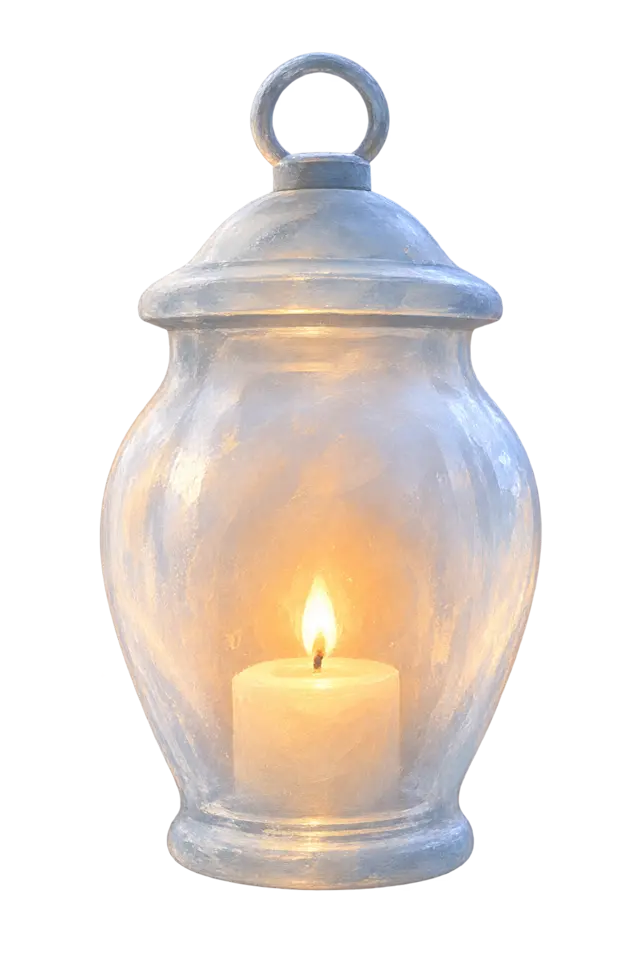
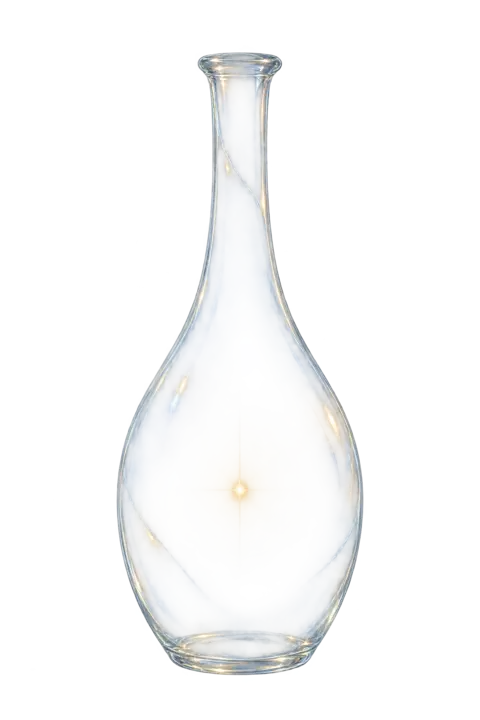
Refine transparent bottle and dandelion spark release

diff --git a/app.js b/app.js
@@ -38,6 +38,9 @@ let progressAnimation;
 let nearestTimer;
 let blinkTimer;
 let muted = false;
+let textSparksReleased = false;
+let lastSparkBurstAt = 0;
+const activeBurstParticles = new Set();
 
 function renderTrackNodes() {
   tracks.forEach((track, index) => {
@@ -65,7 +68,9 @@ function renderTrackNodes() {
   });
 }
 
-function renderSparks() {
+function renderSparks(originX, originY) {
+  if (textSparksReleased) return;
+  textSparksReleased = true;
   sparkTexts.forEach((spark, index) => {
     const button = document.createElement("button");
     button.className = `spark ${spark.styleVariant}`;
@@ -81,6 +86,7 @@ function renderSparks() {
     button.style.setProperty("--spark-dx", `${index % 2 ? -8 : 10}px`);
     button.style.setProperty("--spark-dy", `${index % 3 ? 8 : -7}px`);
     button.style.setProperty("--spark-rotate", `${index % 2 ? -7 : 9}deg`);
+    button.style.animationPlayState = "paused";
 
     const core = document.createElement("span");
     core.className = "spark-core";
@@ -108,7 +114,84 @@ function renderSparks() {
       button.classList.toggle("open", !wasOpen);
     });
     sparkField.append(button);
+
+    if (!reducedMotion) {
+      const targetX = sparkField.clientWidth * spark.positionSeed.x / 100;
+      const targetY = sparkField.clientHeight * spark.positionSeed.y / 100;
+      const release = button.animate([
+        { transform: `translate(${originX - targetX}px,${originY - targetY}px) scale(.08)`, opacity: 0 },
+        { offset: .16, opacity: .92 },
+        { offset: .68, transform: `translate(${(originX - targetX) * .16}px,${(originY - targetY) * .2 - 18}px) scale(.72)`, opacity: .82 },
+        { transform: "translate(0,0) scale(1)", opacity: 1 }
+      ], {
+        duration: 1500 + index * 115,
+        easing: "cubic-bezier(.16,.72,.22,1)",
+        fill: "none"
+      });
+      release.finished.then(() => { button.style.animationPlayState = "running"; }).catch(() => {});
+    } else {
+      button.style.animationPlayState = "running";
+    }
   });
+}
+
+function emitLanternSparks() {
+  const now = performance.now();
+  if (now - lastSparkBurstAt < 850) return;
+  lastSparkBurstAt = now;
+  const worldRect = world.getBoundingClientRect();
+  const lampRect = guidingLamp.getBoundingClientRect();
+  const originX = lampRect.left - worldRect.left + lampRect.width * .5;
+  const originY = lampRect.top - worldRect.top + lampRect.height * .67;
+  renderSparks(originX, originY);
+
+  const particleCount = reducedMotion ? 12 : (window.innerWidth <= 680 ? 28 : 42);
+  const maxDistance = Math.min(270, Math.max(150, window.innerWidth * .24));
+  for (let index = 0; index < particleCount; index += 1) {
+    const particle = document.createElement("span");
+    const starLike = index % 4 !== 1;
+    const size = starLike ? 1.4 + Math.random() * 4.3 : 1.2 + Math.random() * 2.1;
+    particle.className = `released-spark ${starLike ? "star" : "seed"}`;
+    particle.style.setProperty("--burst-size", `${size.toFixed(2)}px`);
+    particle.style.setProperty("--burst-ray", `${(8 + size * 3.1).toFixed(2)}px`);
+    particle.style.setProperty("--seed-height", `${(size * 2.7).toFixed(2)}px`);
+    sparkField.append(particle);
+    activeBurstParticles.add(particle);
+
+    const angle = -Math.PI * (.1 + Math.random() * .8);
+    const distance = 52 + Math.random() * maxDistance;
+    const spread = .52 + Math.random() * .62;
+    const dx = Math.cos(angle) * distance * spread;
+    const dy = Math.sin(angle) * distance - 18 - Math.random() * 58;
+    const hangX = dx + (Math.random() - .5) * 42;
+    const hangY = dy - 25 - Math.random() * 48;
+    const duration = reducedMotion ? 1700 : 4400 + Math.random() * 3600;
+    const twinkle = .38 + Math.random() * .54;
+    const rotation = (Math.random() - .5) * 160;
+    const animation = particle.animate([
+      { transform: `translate3d(${originX}px,${originY}px,0) scale(.08) rotate(0deg)`, opacity: 0 },
+      { offset: .08, opacity: twinkle },
+      { offset: .36, transform: `translate3d(${originX + dx * .72}px,${originY + dy * .66}px,0) scale(1) rotate(${rotation * .35}deg)`, opacity: twinkle * .78 },
+      { offset: .58, opacity: twinkle },
+      { offset: .76, transform: `translate3d(${originX + dx}px,${originY + dy}px,0) scale(.82) rotate(${rotation}deg)`, opacity: twinkle * .62 },
+      { transform: `translate3d(${originX + hangX}px,${originY + hangY}px,0) scale(.42) rotate(${rotation * 1.35}deg)`, opacity: 0 }
+    ], {
+      duration,
+      delay: Math.random() * 260,
+      easing: "cubic-bezier(.16,.68,.25,1)",
+      fill: "forwards"
+    });
+    animation.finished.then(() => {
+      activeBurstParticles.delete(particle);
+      particle.remove();
+    }).catch(() => {});
+  }
+
+  while (activeBurstParticles.size > 92) {
+    const oldest = activeBurstParticles.values().next().value;
+    activeBurstParticles.delete(oldest);
+    oldest.remove();
+  }
 }
 
 const floaterSpecs = [
@@ -138,22 +221,38 @@ const floaterSpecs = [
   ["wisp", 150, 52, 62, 81, .3, .08],
   ["wisp", 86, 38, 88, 46, .56, .09],
   ["wisp", 104, 35, 49, 38, .72, .095],
-  ["wisp", 76, 30, 12, 58, .48, .085]
+  ["wisp", 76, 30, 12, 58, .48, .085],
+  ["white-membrane", 92, 68, 14, 23, .38, .09, true],
+  ["white-membrane", 66, 84, 29, 57, .66, .105, true],
+  ["white-membrane", 118, 72, 79, 35, .29, .072, true],
+  ["white-membrane", 54, 46, 62, 76, .82, .115, true],
+  ["pale-ring", 42, 48, 9, 72, .57, .12, true],
+  ["pale-ring", 74, 59, 91, 61, .33, .082, true],
+  ["pale-ring", 28, 31, 56, 19, .76, .13, true],
+  ["glass-speck", 16, 16, 21, 39, .88, .16, true],
+  ["glass-speck", 9, 9, 47, 69, .51, .13, true],
+  ["glass-speck", 21, 21, 73, 82, .72, .14, true],
+  ["glass-speck", 12, 12, 86, 17, .42, .12, true],
+  ["white-thread", 86, 24, 37, 27, .46, .13, true],
+  ["white-thread", 124, 31, 69, 51, .31, .085, true],
+  ["white-thread", 62, 18, 17, 86, .69, .11, true]
 ];
 
 const floaters = floaterSpecs.map((spec, index) => {
-  const [kind, width, height, xPercent, yPercent, depth, opacity] = spec;
+  const [kind, width, height, xPercent, yPercent, depth, opacity, worldOnly = false] = spec;
   const element = document.createElement("span");
-  const transparent = ["membrane", "ring", "wisp"].includes(kind);
-  element.className = `ambient-floater ${kind}`;
+  const transparent = ["membrane", "ring", "wisp", "white-membrane", "pale-ring", "glass-speck", "white-thread"].includes(kind);
+  element.className = `ambient-floater ${kind}${worldOnly ? " world-floater" : ""}`;
   element.style.setProperty("--w", `${width}px`);
   element.style.setProperty("--h", `${height}px`);
   element.style.setProperty("--base-opacity", opacity);
   element.style.setProperty("--blur", `${Math.max(0, (1.1 - depth) * 2.2)}px`);
+  element.style.transform = `translate3d(${window.innerWidth * xPercent / 100}px,${window.innerHeight * yPercent / 100}px,0)`;
   floaterField.append(element);
   return {
     element,
     transparent,
+    worldOnly,
     x: window.innerWidth * xPercent / 100,
     y: window.innerHeight * yPercent / 100,
     vx: 0,
@@ -288,7 +387,7 @@ function activateTrack(track, node) {
     guidingLamp.classList.remove("active");
     world.classList.remove("fragment-active");
     fragmentCaption.classList.remove("visible");
-    worldHint.textContent = "别追它。停下来，让一个片段自己浮近。";
+    worldHint.textContent = "触碰漂浮瓶，让灯火慢慢散开。";
   }, track.placeholderTone.duration * 1000 + 250);
 }
 
@@ -398,6 +497,7 @@ enter.addEventListener("click", () => {
 guidingLamp.addEventListener("click", () => {
   const track = tracks.find(item => item.id === "deng-huo");
   const node = document.querySelector('[data-track-id="deng-huo"]');
+  emitLanternSparks();
   if (track && node) activateTrack(track, node);
 });
 
@@ -412,6 +512,9 @@ reset.addEventListener("click", () => {
   world.classList.remove("fragment-active");
   fragmentCaption.classList.remove("visible");
   document.querySelectorAll(".track-node").forEach(node => node.classList.remove("active", "near"));
+  sparkField.replaceChildren();
+  activeBurstParticles.clear();
+  textSparksReleased = false;
   stopAudio();
 });
 
@@ -432,6 +535,5 @@ window.addEventListener("resize", () => {
 });
 
 renderTrackNodes();
-renderSparks();
 scheduleBlink();
 requestAnimationFrame(animate);

diff --git a/styles.css b/styles.css
@@ -306,9 +306,9 @@ button:focus-visible { outline: 1px solid #eef5ff; outline-offset: 7px; }
 .guiding-lamp {
   position: absolute;
   z-index: 13;
-  left: 25%;
-  bottom: clamp(-4rem,-4vh,-1rem);
-  width: clamp(155px,20vw,265px);
+  left: 24%;
+  bottom: clamp(2.5rem,5vh,5rem);
+  width: clamp(98px,12vw,165px);
   margin: 0;
   padding: 0;
   border: 0;
@@ -324,19 +324,20 @@ button:focus-visible { outline: 1px solid #eef5ff; outline-offset: 7px; }
   display: block;
   width: 100%;
   height: auto;
-  opacity: .76;
-  filter: saturate(.72) contrast(.92) drop-shadow(0 0 13px rgba(255,231,192,.28)) drop-shadow(0 0 42px rgba(255,174,75,.2));
+  opacity: .29;
+  mix-blend-mode: screen;
+  filter: saturate(.64) contrast(1.14) brightness(.74) drop-shadow(0 0 5px rgba(224,239,255,.18)) drop-shadow(0 0 15px rgba(255,185,91,.1));
   transition: opacity .6s, filter .7s, transform .8s;
 }
 .lamp-aura {
   position: absolute;
   z-index: 1;
   left: 50%;
-  top: 61%;
-  width: 150%;
+  top: 68%;
+  width: 94%;
   aspect-ratio: 1;
   border-radius: 50%;
-  background: radial-gradient(circle, rgba(255,245,221,.35) 0 2%, rgba(255,199,112,.19) 12%, rgba(255,176,70,.08) 32%, transparent 68%);
+  background: radial-gradient(circle, rgba(255,251,236,.72) 0 1.2%, rgba(255,213,146,.24) 4%, rgba(255,177,76,.09) 15%, transparent 48%);
   transform: translate(-50%,-50%);
   filter: blur(12px);
   animation: lamp-breathe 3.6s ease-in-out infinite alternate;
@@ -345,7 +346,7 @@ button:focus-visible { outline: 1px solid #eef5ff; outline-offset: 7px; }
   position: absolute;
   z-index: 3;
   left: 50%;
-  bottom: 16%;
+  bottom: -1.25rem;
   transform: translate(-50%,8px);
   white-space: nowrap;
   color: rgba(255,236,207,.78);
@@ -356,7 +357,7 @@ button:focus-visible { outline: 1px solid #eef5ff; outline-offset: 7px; }
   text-shadow: 0 0 14px #ffbb62;
 }
 .guiding-lamp:hover img, .guiding-lamp:focus-visible img,
-.guiding-lamp.active img { opacity: .94; filter: saturate(.82) contrast(.96) drop-shadow(0 0 18px rgba(255,242,218,.5)) drop-shadow(0 0 70px rgba(255,174,75,.4)); transform: scale(1.025); }
+.guiding-lamp.active img { opacity: .46; filter: saturate(.7) contrast(1.2) brightness(.82) drop-shadow(0 0 7px rgba(232,243,255,.28)) drop-shadow(0 0 24px rgba(255,176,72,.2)); transform: scale(1.025); }
 .guiding-lamp:hover .lamp-label, .guiding-lamp:focus-visible .lamp-label,
 .guiding-lamp.active .lamp-label { opacity: 1; transform: translate(-50%,0); }
 .lamp-field {
@@ -373,6 +374,38 @@ button:focus-visible { outline: 1px solid #eef5ff; outline-offset: 7px; }
 }
 .world[data-mood="lamp"] .lamp-field { opacity: 1; }
 .spark-field { position: absolute; inset: 0; z-index: 18; pointer-events: none; }
+.released-spark {
+  position: absolute;
+  left: 0;
+  top: 0;
+  width: var(--burst-size);
+  height: var(--burst-size);
+  border-radius: 50%;
+  background: rgba(255,248,229,.92);
+  box-shadow: 0 0 7px rgba(255,255,255,.82), 0 0 18px rgba(255,191,102,.38);
+  transform: translate(-50%,-50%);
+  pointer-events: none;
+  will-change: transform, opacity;
+}
+.released-spark.star::before,
+.released-spark.star::after {
+  content: "";
+  position: absolute;
+  left: 50%;
+  top: 50%;
+  width: var(--burst-ray);
+  height: 1px;
+  background: linear-gradient(90deg,transparent,rgba(255,252,240,.82),transparent);
+  transform: translate(-50%,-50%);
+}
+.released-spark.star::after { transform: translate(-50%,-50%) rotate(90deg); }
+.released-spark.seed {
+  width: var(--burst-size);
+  height: var(--seed-height);
+  border-radius: 70% 30% 62% 38%;
+  background: linear-gradient(180deg,rgba(255,255,255,.8),rgba(255,211,151,.18),transparent);
+  box-shadow: 0 0 8px rgba(255,226,178,.3);
+}
 .spark {
   --spark-scale: 1;
   position: absolute;
@@ -608,6 +641,32 @@ button:focus-visible { outline: 1px solid #eef5ff; outline-offset: 7px; }
   border-radius: 65% 35% 55% 45%;
   filter: blur(var(--blur));
 }
+.stage:not(.entered) .ambient-floater.world-floater { opacity: 0 !important; }
+.ambient-floater.white-membrane {
+  border: 1px solid rgba(226,238,255,.2);
+  border-radius: 61% 39% 54% 46% / 44% 63% 37% 56%;
+  background: radial-gradient(ellipse at 30% 26%,rgba(244,248,255,.1),rgba(182,207,248,.025) 48%,transparent 73%);
+  box-shadow: inset -5px 7px 18px rgba(239,246,255,.055),0 0 18px rgba(154,190,244,.035);
+  filter: blur(var(--blur));
+}
+.ambient-floater.pale-ring {
+  border: 1px solid rgba(232,242,255,.22);
+  border-radius: 48% 55% 43% 57%;
+  box-shadow: inset 0 0 11px rgba(220,235,255,.065),0 0 10px rgba(173,202,246,.04);
+  filter: blur(var(--blur));
+}
+.ambient-floater.glass-speck {
+  border-radius: 50%;
+  background: radial-gradient(circle at 34% 31%,rgba(255,255,255,.72) 0 5%,rgba(218,235,255,.12) 24%,transparent 72%);
+  filter: blur(var(--blur));
+}
+.ambient-floater.white-thread {
+  height: 2px;
+  border-radius: 50%;
+  border-top: 1px solid rgba(227,239,255,.24);
+  border-right: 1px solid rgba(187,213,250,.1);
+  filter: blur(var(--blur));
+}
 .credits {
   position: absolute;
   z-index: 17;
@@ -666,7 +725,7 @@ button:focus-visible { outline: 1px solid #eef5ff; outline-offset: 7px; }
   .enter-copy, .enter-copy small { overflow-wrap: anywhere; }
   .album-presence { top: 42%; width: min(92vw,480px); opacity: .4; }
   .depth-ring { width: 115vw; }
-  .guiding-lamp { left: 50%; bottom: -1.8rem; width: clamp(142px,42vw,190px); }
+  .guiding-lamp { left: 27%; bottom: 4.4rem; width: clamp(84px,23vw,112px); }
   .guiding-path { left: -8%; right: -8%; bottom: 2%; height: 25%; }
   .spark { width: 50px; height: 50px; margin: -25px 0 0 -25px; }
   .spark-copy { max-width: 58vw; font-size: .69rem; }

diff --git a/index.html b/index.html
@@ -70,9 +70,9 @@
       <div class="depth-ring"></div>
       <div class="album-presence"><img src="cover.webp" alt="小酷《飞蚊症》专辑封面" /></div>
       <div class="guiding-path" aria-hidden="true"><i></i><i></i><i></i><i></i><i></i></div>
-      <button class="guiding-lamp" id="guidingLamp" type="button" aria-label="触碰指路的灯火，播放音乐碎片《灯火》">
+      <button class="guiding-lamp" id="guidingLamp" type="button" aria-label="触碰漂浮的透明玻璃瓶，释放灯火并播放音乐碎片《灯火》">
         <span class="lamp-aura" aria-hidden="true"></span>
-        <img src="lantern.webp" alt="一盏白色半透明玻璃灯，内部亮着温暖灯火" />
+        <img src="lantern.webp" alt="一只近乎透明的漂流瓶，内部悬着微弱灯火" />
         <span class="lamp-label">指路的灯火</span>
       </button>
       <div class="lamp-field" aria-hidden="true"></div>
@@ -83,7 +83,7 @@
         <strong id="fragmentTitle">灯火</strong>
         <div class="fragment-progress"><i id="fragmentProgress"></i></div>
       </div>
-      <p class="world-hint" id="worldHint">别追它。停下来，让一个片段自己浮近。</p>
+      <p class="world-hint" id="worldHint">触碰漂浮瓶，让灯火慢慢散开。</p>
       <div class="credits">UNOFFICIAL FAN-MADE EXPERIENCE · 2026</div>
     </section>
 
